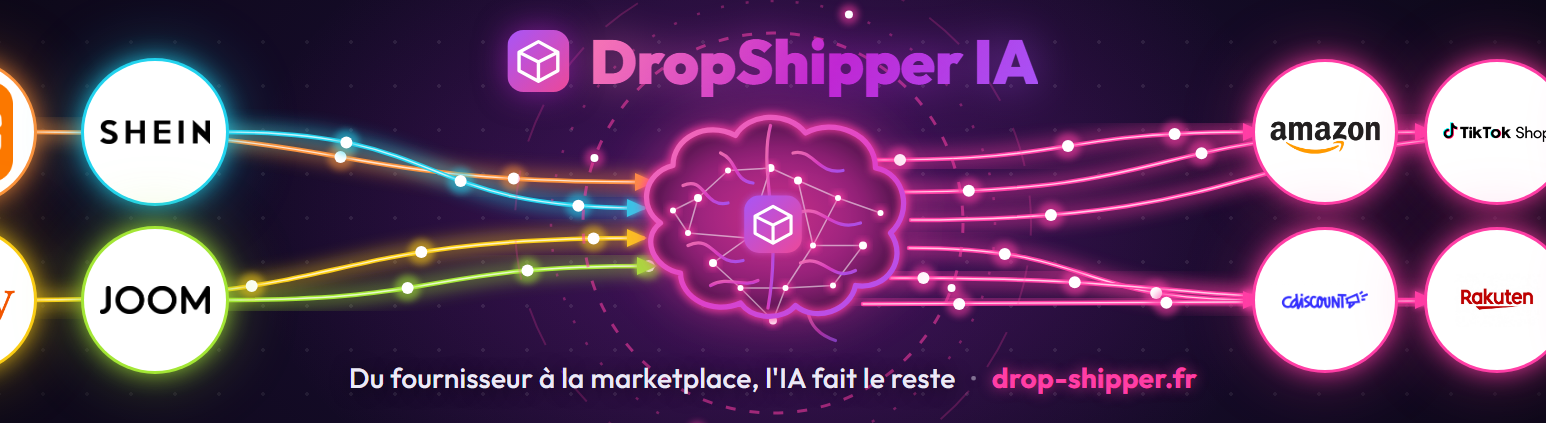
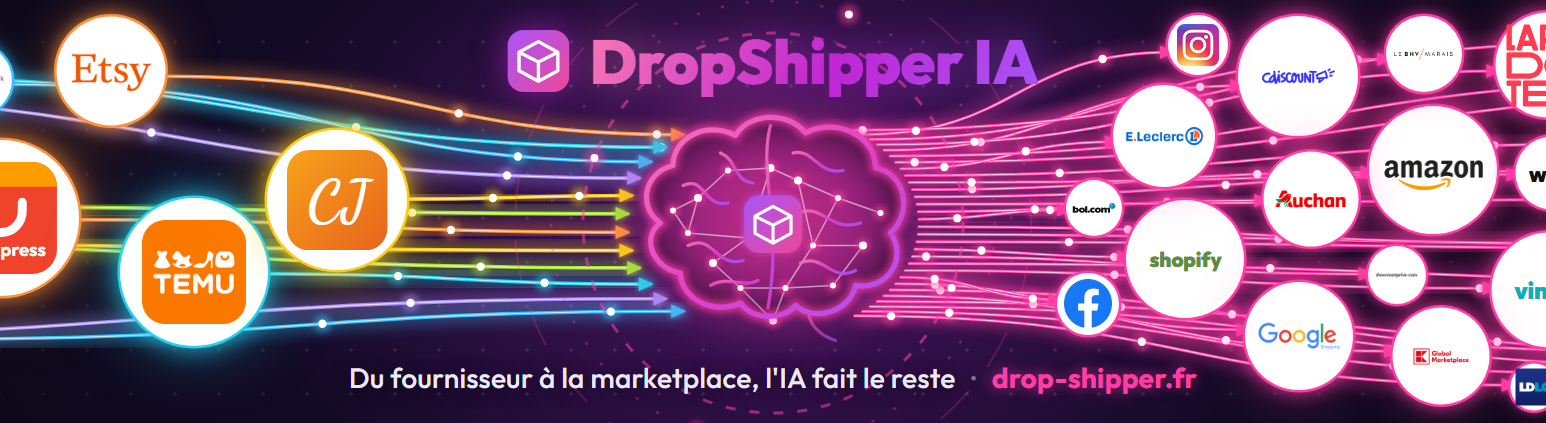
Bannière YouTube : nuages de pastilles désordonnées, fournisseurs et marketplaces réels
Douze fournisseurs à gauche et trente places de marché à droite, tailles
différentes, positions tirées au sort (graine fixe), sans chevauchement,
chacune reliée au cerveau. Les deux côtés ne montrent que ce que l'application
fait vraiment (suppliers.ts / platforms.ts) : Rakuten, Zalando, Darty,
ManoMano, Back Market, Otto, Castorama et Veepee retirés. Les logos absents
du paquet ont une pastille de repli, remplacée dès que le fichier est déposé
dans docs/youtube/logos/.

diff --git a/docs/youtube/banniere.html b/docs/youtube/banniere.html
@@ -9,15 +9,24 @@
   YouTube recadre selon l'écran : la télévision voit tout, l'ordinateur voit une
   bande de 2560 × 423 au centre, la tablette 1855 × 423, le téléphone 1546 × 423.
   Tout ce qui compte (nom, cerveau, accroche) tient donc dans la « zone sûre »
-  de 1546 × 423 centrée ; les pastilles s'étalent dans la bande d'ordinateur ;
-  le reste du canevas n'est que décor pour la télévision.
+  de 1546 × 423 centrée ; les nuages de pastilles s'étalent dans la bande
+  d'ordinateur ; le reste du canevas n'est que décor pour la télévision.
+
+  Les pastilles sont posées en NUAGE : tailles différentes, positions tirées au
+  sort (graine fixe, donc le même dessin à chaque rendu — changer GRAINE pour
+  un autre tirage), jamais alignées, sans se chevaucher. Chaque pastille est
+  reliée au cerveau.
+
+  Logos : ceux du paquet du site (`logo`), ou un fichier déposé dans
+  `docs/youtube/logos/` (`local`). Quand ce fichier manque, une pastille de
+  repli dessinée ici prend sa place ; déposer le fichier suffit à la remplacer.
 
   Ouvrir avec « ?guides » pour voir les zones de recadrage superposées, avec
   « ?vue=ordinateur » ou « ?vue=telephone » pour voir la bande telle que YouTube
   la recadre. Rendu en PNG par `node docs/youtube/rendre.cjs`.
 -->
 <link rel="preconnect" href="https://fonts.googleapis.com">
-<link rel="stylesheet" href="https://fonts.googleapis.com/css2?family=Outfit:wght@500;700;900&display=swap">
+<link rel="stylesheet" href="https://fonts.googleapis.com/css2?family=Outfit:wght@500;700;900&family=Dancing+Script:wght@700&display=swap">
 <style>
   :root {
     --noir: #08070f;
@@ -50,10 +59,13 @@
   .pastille {
     position: absolute; transform: translate(-50%, -50%);
     border-radius: 50%; background: #fff; display: grid; place-items: center;
-    box-shadow: 0 0 0 3px var(--c), 0 0 26px var(--c), 0 0 70px color-mix(in srgb, var(--c) 40%, transparent);
+    box-shadow: 0 0 0 2.5px var(--c), 0 0 calc(var(--d) * .18) var(--c), 0 0 calc(var(--d) * .5) color-mix(in srgb, var(--c) 40%, transparent);
   }
-  .pastille img { width: 78%; height: 78%; object-fit: contain; }
+  .pastille img, .pastille .repli { width: 78%; height: 78%; object-fit: contain; }
   .pastille.carre img { width: 70%; height: 70%; border-radius: 18%; }
+  .repli { display: grid; place-items: center; text-align: center; line-height: 1; overflow: hidden; }
+  .repli svg { width: 92%; height: 92%; }
+  .repli.mot { font-weight: 900; letter-spacing: -0.02em; }
 
   /* Les aperçus recadrés : la scène glisse pour que la fenêtre montre la bande. */
   body.vue-ordinateur .scene { transform: translateY(-508px); }
@@ -96,7 +108,7 @@
 
   <svg class="liens" id="liens" viewBox="0 0 2560 1440" xmlns="http://www.w3.org/2000/svg">
     <defs>
-      <filter id="neon" x="-30%" y="-30%" width="160%" height="160%"><feGaussianBlur stdDeviation="9"/></filter>
+      <filter id="neon" x="-30%" y="-30%" width="160%" height="160%"><feGaussianBlur stdDeviation="8"/></filter>
       <filter id="neon-doux" x="-30%" y="-30%" width="160%" height="160%"><feGaussianBlur stdDeviation="3"/></filter>
       <filter id="aura" x="-50%" y="-50%" width="200%" height="200%"><feGaussianBlur stdDeviation="22"/></filter>
       <linearGradient id="trait-cerveau" x1="0" y1="0" x2="1" y2="1">
@@ -153,7 +165,7 @@
       <g transform="translate(97 78)">
         <rect width="46" height="46" rx="12" fill="url(#cube-fond)" filter="url(#neon-doux)" opacity=".9"/>
         <rect width="46" height="46" rx="12" fill="url(#cube-fond)"/>
-        <path transform="scale(.36) translate(0 0)" d="M64 24L104 46L104 84L64 106L24 84L24 46ZM24 46L64 66L104 46M64 66L64 106" fill="none" stroke="#fff" stroke-width="7" stroke-linejoin="round" stroke-linecap="round"/>
+        <path transform="scale(.36)" d="M64 24L104 46L104 84L64 106L24 84L24 46ZM24 46L64 66L104 46M64 66L64 106" fill="none" stroke="#fff" stroke-width="7" stroke-linejoin="round" stroke-linecap="round"/>
       </g>
     </svg>
   </svg>
@@ -181,29 +193,97 @@
 </div>
 
 <script>
-  const LOGOS = '../../frontend/public/logos/'
+  const PAQUET = '../../frontend/public/logos/'
+  const LOCAL = 'logos/'
   const ROSE = '#ff3ea5'
+  const GRAINE = 20260911
 
-  // Sources, à gauche : une couleur néon par flux. Les logos du paquet du site.
+  // Sources, à gauche : les fournisseurs de services/suppliers.ts (plus Shein,
+  // relevé par l'extension), du plus gros au plus petit, une couleur néon chacun.
+  // `logo` = fichier du paquet du site ; `local` = fichier attendu dans
+  // docs/youtube/logos/, avec `repli` = dessin de secours tant qu'il manque.
+  const NEONS = ['#fb923c', '#22d3ee', '#facc15', '#a3e635', '#a78bfa', '#38bdf8']
   const SOURCES = [
-    { x: 470, y: 640, d: 142, logo: 'temu_logo-svg.png', c: '#fb923c', carre: true },
-    { x: 662, y: 640, d: 142, logo: 'shein-logo.png',    c: '#22d3ee' },
-    { x: 470, y: 808, d: 142, logo: 'etsy.png',          c: '#facc15' },
-    { x: 662, y: 808, d: 142, logo: 'joom-logo-new.png', c: '#a3e635' },
-  ]
-  // Destinations, à droite : tout en rose néon, la couleur de la marque.
+    { local: 'aliexpress.png', repli: 'aliexpress' },
+    { logo: 'temu_logo-svg.png', carre: true },
+    { local: 'cj.png', repli: 'cj' },
+    { local: 'bigbuy.png', repli: { texte: 'BigBuy', couleur: '#1d4ed8' } },
+    { logo: 'shein-logo.png' },
+    { local: 'alibaba.png', repli: { texte: 'Alibaba', couleur: '#ff6a00' } },
+    { logo: 'etsy.png' },
+    { local: 'vidaxl.png', repli: { texte: 'vidaXL', couleur: '#f37021' } },
+    { logo: 'joom-logo-new.png' },
+    { local: 'dhgate.png', repli: { texte: 'DHgate', couleur: '#e8402a' } },
+    { local: 'banggood.png', repli: { texte: 'Banggood', couleur: '#ff6a00' } },
+    { logo: 'zentrada.png' },
+  ].map((p, i) => ({ ...p, c: NEONS[i % NEONS.length] }))
+
+  // Destinations, à droite : uniquement des places de marché de
+  // services/platforms.ts (ce que l'application publie vraiment), tout en rose néon.
   const DESTINATIONS = [
-    { x: 1832, y: 640, d: 140, logo: 'amazon.png' },
-    { x: 2004, y: 640, d: 140, logo: 'tiktokshop_logo.png' },
-    { x: 2176, y: 640, d: 140, logo: 'ebay.png' },
-    { x: 1832, y: 808, d: 140, logo: 'cdiscount-new-logo.png' },
-    { x: 2004, y: 808, d: 140, logo: 'rakuten.png' },
-    { x: 2176, y: 808, d: 140, logo: 'zalando.png' },
+    { logo: 'amazon.png' }, { logo: 'tiktokshop_logo.png' }, { logo: 'ebay.png' }, { logo: 'cdiscount-new-logo.png' },
+    { local: 'shopify.png', repli: { texte: 'shopify', couleur: '#5e8e3e' } },
+    { local: 'vinted.png', repli: { texte: 'vinted', couleur: '#09b1ba' } },
+    { local: 'leboncoin.png', repli: { texte: 'leboncoin', couleur: '#ff6e14' } },
+    { logo: 'fnac.png' }, { logo: 'googleshoppingads.png' }, { logo: 'laredoute.png' }, { logo: 'eleclerc.png' },
+    { logo: 'carrefour.png' }, { logo: 'kaufland_marketplace.png' }, { logo: 'auchan.png' }, { logo: 'boulanger.png' },
+    { logo: 'leroymerlin.png' }, { logo: 'but.png' },
+    { local: 'wish.png', repli: { texte: 'wish', couleur: '#111', taille: 0.3 } },
+    { logo: 'bhvmarais.png' }, { logo: 'kiabi_logo.png' }, { logo: 'showroomprive.png' }, { logo: 'spartoo.png' },
+    { logo: 'miintomarketplace.png' }, { logo: 'instagram.png', carre: true }, { logo: 'facebookads.png' }, { logo: 'bol-logo.png' },
+    { logo: 'galerieslafayette.png' }, { logo: 'maisonsdumonde.png' }, { logo: '1200px-media_markt_logo-svg.png' }, { logo: 'ldlc.png' },
   ].map((p) => ({ ...p, c: ROSE }))
 
-  // Où les flux touchent le cerveau : sur son contour, pas sur sa boîte.
-  const ENTREES = [[1158, 690], [1150, 716], [1150, 746], [1160, 774]]
-  const SORTIES = [[1384, 668], [1406, 700], [1418, 728], [1416, 756], [1398, 786], [1370, 812]]
+  // Tailles décroissantes : les premières pastilles sont les plus grosses.
+  const taille = (i, n, max, min) => Math.round(max - (i * (max - min)) / Math.max(1, n - 1))
+  SOURCES.forEach((p, i) => (p.d = taille(i, SOURCES.length, 156, 70)))
+  DESTINATIONS.forEach((p, i) => (p.d = taille(i, DESTINATIONS.length, 128, 54)))
+
+  // Tirage au sort reproductible (mulberry32).
+  const alea = (() => { let a = GRAINE; return () => { a |= 0; a = (a + 0x6d2b79f5) | 0; let t = Math.imul(a ^ (a >>> 15), 1 | a); t = (t + Math.imul(t ^ (t >>> 7), 61 | t)) ^ t; return ((t ^ (t >>> 14)) >>> 0) / 4294967296 } })()
+
+  // Les nuages vivent dans la bande d'ordinateur (508–931), loin du centre.
+  const BANDE = { y0: 520, y1: 920 }
+  const CERVEAU = { cx: 1280, cy: 731 }
+  const EXCLUS = [
+    { cx: CERVEAU.cx, cy: CERVEAU.cy, r: 292 },          // cerveau + anneaux
+    { x0: 940, x1: 1620, y0: 512, y1: 622 },            // la marque
+    { x0: 840, x1: 1730, y0: 850, y1: 910 },            // l'accroche (858 → 1702 px)
+  ]
+  function placer(liste, x0, x1, poses) {
+    for (const p of liste) {
+      let d = p.d, place = false
+      for (let essai = 0; essai < 20000 && !place; essai++) {
+        if (essai && essai % 2500 === 0 && d > 44) d = Math.round(d * 0.93)
+        const r = d / 2
+        const x = x0 + r + alea() * (x1 - x0 - d)
+        const y = BANDE.y0 + r + alea() * (BANDE.y1 - BANDE.y0 - d)
+        const heurte = EXCLUS.some((e) => 'r' in e ? Math.hypot(x - e.cx, y - e.cy) < e.r + r : x + r > e.x0 && x - r < e.x1 && y + r > e.y0 && y - r < e.y1)
+        if (heurte) continue
+        if (poses.some((q) => Math.hypot(x - q.x, y - q.y) < r + q.d / 2 + 14)) continue
+        Object.assign(p, { x, y, d })
+        poses.push(p)
+        place = true
+      }
+      if (!place) document.title = 'PASTILLE SANS PLACE : ' + (p.logo || p.local)
+    }
+  }
+  const poses = []
+  placer(SOURCES, 48, 1000, poses)
+  placer(DESTINATIONS, 1560, 2512, poses)
+
+  // Où les flux touchent le cerveau : sur une ellipse qui épouse son contour,
+  // répartis dans l'ordre vertical des pastilles pour que les liens ne se croisent pas.
+  const surCerveau = (liste, angleDebut, angleFin) => {
+    const tri = [...liste].sort((a, b) => a.y - b.y)
+    tri.forEach((p, i) => {
+      const t = tri.length === 1 ? 0.5 : i / (tri.length - 1)
+      const a = ((angleDebut + (angleFin - angleDebut) * t) * Math.PI) / 180
+      p.ancre = [CERVEAU.cx + 146 * Math.cos(a), CERVEAU.cy + 112 * Math.sin(a)]
+    })
+  }
+  surCerveau(SOURCES, 232, 128)     // bord gauche, de haut en bas
+  surCerveau(DESTINATIONS, -56, 56) // bord droit, de haut en bas
 
   const NS = 'http://www.w3.org/2000/svg'
   const el = (tag, attrs) => {
@@ -216,43 +296,71 @@
   const paquets = document.getElementById('paquets')
 
   const courbe = ([x0, y0], [x1, y1]) => {
-    const dx = (x1 - x0) * 0.55
+    const dx = (x1 - x0) * 0.5
     return `M${x0} ${y0}C${x0 + dx} ${y0} ${x1 - dx} ${y1} ${x1} ${y1}`
   }
 
-  function lien(depart, arrivee, couleur, graine) {
+  function lien(depart, arrivee, couleur, graine, epaisseur) {
     const d = courbe(depart, arrivee)
-    halos.append(el('path', { d, fill: 'none', stroke: couleur, 'stroke-width': 14, opacity: .55, filter: 'url(#neon)', 'stroke-linecap': 'round' }))
-    traits.append(el('path', { d, fill: 'none', stroke: couleur, 'stroke-width': 4.5, 'stroke-linecap': 'round' }))
-    const coeur = el('path', { d, fill: 'none', stroke: '#fff', 'stroke-width': 1.4, opacity: .75, 'stroke-linecap': 'round' })
+    halos.append(el('path', { d, fill: 'none', stroke: couleur, 'stroke-width': epaisseur * 3, opacity: .5, filter: 'url(#neon)', 'stroke-linecap': 'round' }))
+    traits.append(el('path', { d, fill: 'none', stroke: couleur, 'stroke-width': epaisseur, 'stroke-linecap': 'round' }))
+    const coeur = el('path', { d, fill: 'none', stroke: '#fff', 'stroke-width': 1.2, opacity: .7, 'stroke-linecap': 'round' })
     traits.append(coeur)
     // Les paquets de données qui circulent, figés à des positions décalées par lien.
     const L = coeur.getTotalLength()
-    for (const t of [0.22, 0.5, 0.78]) {
-      const p = coeur.getPointAtLength(((t + graine * 0.07) % 1) * L)
-      paquets.append(el('circle', { cx: p.x, cy: p.y, r: 13, fill: couleur, opacity: .5, filter: 'url(#neon-doux)' }))
-      paquets.append(el('circle', { cx: p.x, cy: p.y, r: 6, fill: '#fff' }))
+    for (const t of [0.3, 0.68]) {
+      const p = coeur.getPointAtLength(((t + graine * 0.045) % 1) * L)
+      paquets.append(el('circle', { cx: p.x, cy: p.y, r: 9, fill: couleur, opacity: .5, filter: 'url(#neon-doux)' }))
+      paquets.append(el('circle', { cx: p.x, cy: p.y, r: 4.2, fill: '#fff' }))
     }
     // La pointe, à l'arrivée.
     const fin = coeur.getPointAtLength(L)
-    const avant = coeur.getPointAtLength(L - 12)
-    const a = Math.atan2(fin.y - avant.y, fin.x - avant.x) * 180 / Math.PI
-    paquets.append(el('path', { d: 'M-16 -9L4 0L-16 9Z', fill: couleur, transform: `translate(${fin.x} ${fin.y}) rotate(${a})`, filter: 'url(#neon-doux)' }))
-    paquets.append(el('path', { d: 'M-16 -9L4 0L-16 9Z', fill: couleur, transform: `translate(${fin.x} ${fin.y}) rotate(${a})` }))
+    const avant = coeur.getPointAtLength(L - 10)
+    const a = (Math.atan2(fin.y - avant.y, fin.x - avant.x) * 180) / Math.PI
+    const pointe = 'M-12 -7L3 0L-12 7Z'
+    paquets.append(el('path', { d: pointe, fill: couleur, transform: `translate(${fin.x} ${fin.y}) rotate(${a})`, filter: 'url(#neon-doux)' }))
+    paquets.append(el('path', { d: pointe, fill: couleur, transform: `translate(${fin.x} ${fin.y}) rotate(${a})` }))
   }
 
-  SOURCES.forEach((p, i) => lien([p.x + p.d / 2 - 4, p.y], ENTREES[i], p.c, i))
-  DESTINATIONS.forEach((p, i) => lien(SORTIES[i], [p.x - p.d / 2 + 4, p.y], p.c, i + 4))
+  // Le point de départ d'un lien : sur le bord de la pastille, face au cerveau.
+  const bord = (p, cible) => {
+    const a = Math.atan2(cible[1] - p.y, cible[0] - p.x)
+    return [p.x + (p.d / 2 - 3) * Math.cos(a), p.y + (p.d / 2 - 3) * Math.sin(a)]
+  }
+  SOURCES.forEach((p, i) => lien(bord(p, p.ancre), p.ancre, p.c, i, 3.6))
+  DESTINATIONS.forEach((p, i) => lien(p.ancre, bord(p, p.ancre), p.c, i + 10, 3))
+
+  // Les dessins de secours, quand le fichier local manque : deux icônes
+  // redessinées, sinon le nom de la marque dans sa couleur.
+  const REPLIS = {
+    aliexpress: () => `<svg viewBox="0 0 100 100"><rect width="100" height="100" rx="22" fill="#f0432b"/><path d="M0 22V22C0 10 10 0 22 0H78C90 0 100 10 100 22Z" fill="#ff9d00"/><path d="M31 36V44A19 19 0 0 0 69 44V36" fill="none" stroke="#fff" stroke-width="8" stroke-linecap="round"/><text x="50" y="84" text-anchor="middle" font-size="16.5" font-weight="700" fill="#fff" font-family="Outfit,sans-serif">AliExpress</text></svg>`,
+    cj: () => `<svg viewBox="0 0 100 100"><defs><linearGradient id="cj-fond" x1="0" y1="0" x2="1" y2="1"><stop offset="0" stop-color="#f7a21b"/><stop offset="1" stop-color="#e8641b"/></linearGradient></defs><rect width="100" height="100" rx="22" fill="url(#cj-fond)"/><text x="50" y="70" text-anchor="middle" font-size="58" fill="#fff" font-family="'Dancing Script',cursive" font-weight="700">CJ</text></svg>`,
+  }
+  const fabriqueRepli = (repli, d) => {
+    const div = document.createElement('div')
+    if (typeof repli === 'string') {
+      div.className = 'repli'
+      div.innerHTML = REPLIS[repli]()
+    } else {
+      // Un mot : sa taille se règle sur sa longueur pour remplir la pastille.
+      div.className = 'repli mot'
+      const taille = repli.taille ?? Math.min(0.3, 1.25 / repli.texte.length)
+      div.style.cssText = `color:${repli.couleur};font-size:${Math.round(d * taille)}px`
+      div.textContent = repli.texte
+    }
+    return div
+  }
 
   // Les pastilles.
   const conteneur = document.getElementById('pastilles')
   for (const p of [...SOURCES, ...DESTINATIONS]) {
     const div = document.createElement('div')
     div.className = 'pastille' + (p.carre ? ' carre' : '')
-    div.style.cssText = `left:${p.x}px;top:${p.y}px;width:${p.d}px;height:${p.d}px;--c:${p.c}`
+    div.style.cssText = `left:${p.x}px;top:${p.y}px;width:${p.d}px;height:${p.d}px;--c:${p.c};--d:${p.d}px`
     const img = document.createElement('img')
-    img.src = LOGOS + p.logo
+    img.src = (p.local ? LOCAL + p.local : PAQUET + p.logo)
     img.alt = ''
+    if (p.repli) img.onerror = () => img.replaceWith(fabriqueRepli(p.repli, p.d))
     div.append(img)
     conteneur.append(div)
   }
@@ -272,12 +380,12 @@
 
   // Les anneaux de traitement autour du cerveau (repère de la page).
   const anneaux = document.getElementById('anneaux')
-  const cx = 1280, cy = 731
+  const { cx, cy } = CERVEAU
   ;[[190, .55, '10 14', 3], [222, .35, '3 22', 2.5], [258, .22, '40 30', 2]].forEach(([r, o, dash, w], i) => {
     anneaux.append(el('circle', { cx, cy, r, stroke: ROSE, 'stroke-width': w, 'stroke-dasharray': dash, opacity: o, transform: `rotate(${i * 37} ${cx} ${cy})` }))
   })
   ;[[190, 20], [190, 200], [222, 110], [222, 290], [258, 60], [258, 250]].forEach(([r, deg]) => {
-    const x = cx + r * Math.cos(deg * Math.PI / 180), y = cy + r * Math.sin(deg * Math.PI / 180)
+    const x = cx + r * Math.cos((deg * Math.PI) / 180), y = cy + r * Math.sin((deg * Math.PI) / 180)
     anneaux.append(el('circle', { cx: x, cy: y, r: 10, fill: ROSE, opacity: .5, filter: 'url(#neon-doux)' }))
     anneaux.append(el('circle', { cx: x, cy: y, r: 4, fill: '#fff' }))
   })

diff --git a/docs/youtube/logos/LISEZMOI.md b/docs/youtube/logos/LISEZMOI.md
@@ -1,0 +1,24 @@
+# Logos hors paquet
+
+Déposer ici les logos qui ne sont pas dans `frontend/public/logos/`, sous
+ces noms exacts, puis relancer `node docs/youtube/rendre.cjs` : la bannière
+les prend à la place des pastilles de repli dessinées dans `banniere.html`.
+Un carré (icône d'application) rend mieux qu'un logo large dans une pastille ronde.
+
+| Fichier attendu | Côté | Pastille de repli tant qu'il manque |
+|---|---|---|
+| `aliexpress.png` | fournisseurs | carré rouge, anse blanche, « AliExpress » |
+| `cj.png` | fournisseurs | carré orange, « CJ » en écriture cursive |
+| `bigbuy.png` | fournisseurs | « BigBuy » en bleu |
+| `alibaba.png` | fournisseurs | « Alibaba » en orange |
+| `vidaxl.png` | fournisseurs | « vidaXL » en orange |
+| `dhgate.png` | fournisseurs | « DHgate » en rouge |
+| `banggood.png` | fournisseurs | « Banggood » en orange |
+| `shopify.png` | marketplaces | « shopify » en vert |
+| `vinted.png` | marketplaces | « vinted » en turquoise |
+| `leboncoin.png` | marketplaces | « leboncoin » en orange |
+| `wish.png` | marketplaces | « wish » en noir |
+
+Les deux côtés ne montrent que ce que l'application fait vraiment : les
+fournisseurs de `backend/src/services/suppliers.ts` (plus Shein, relevé par
+l'extension) et les places de marché de `backend/src/services/platforms.ts`.
